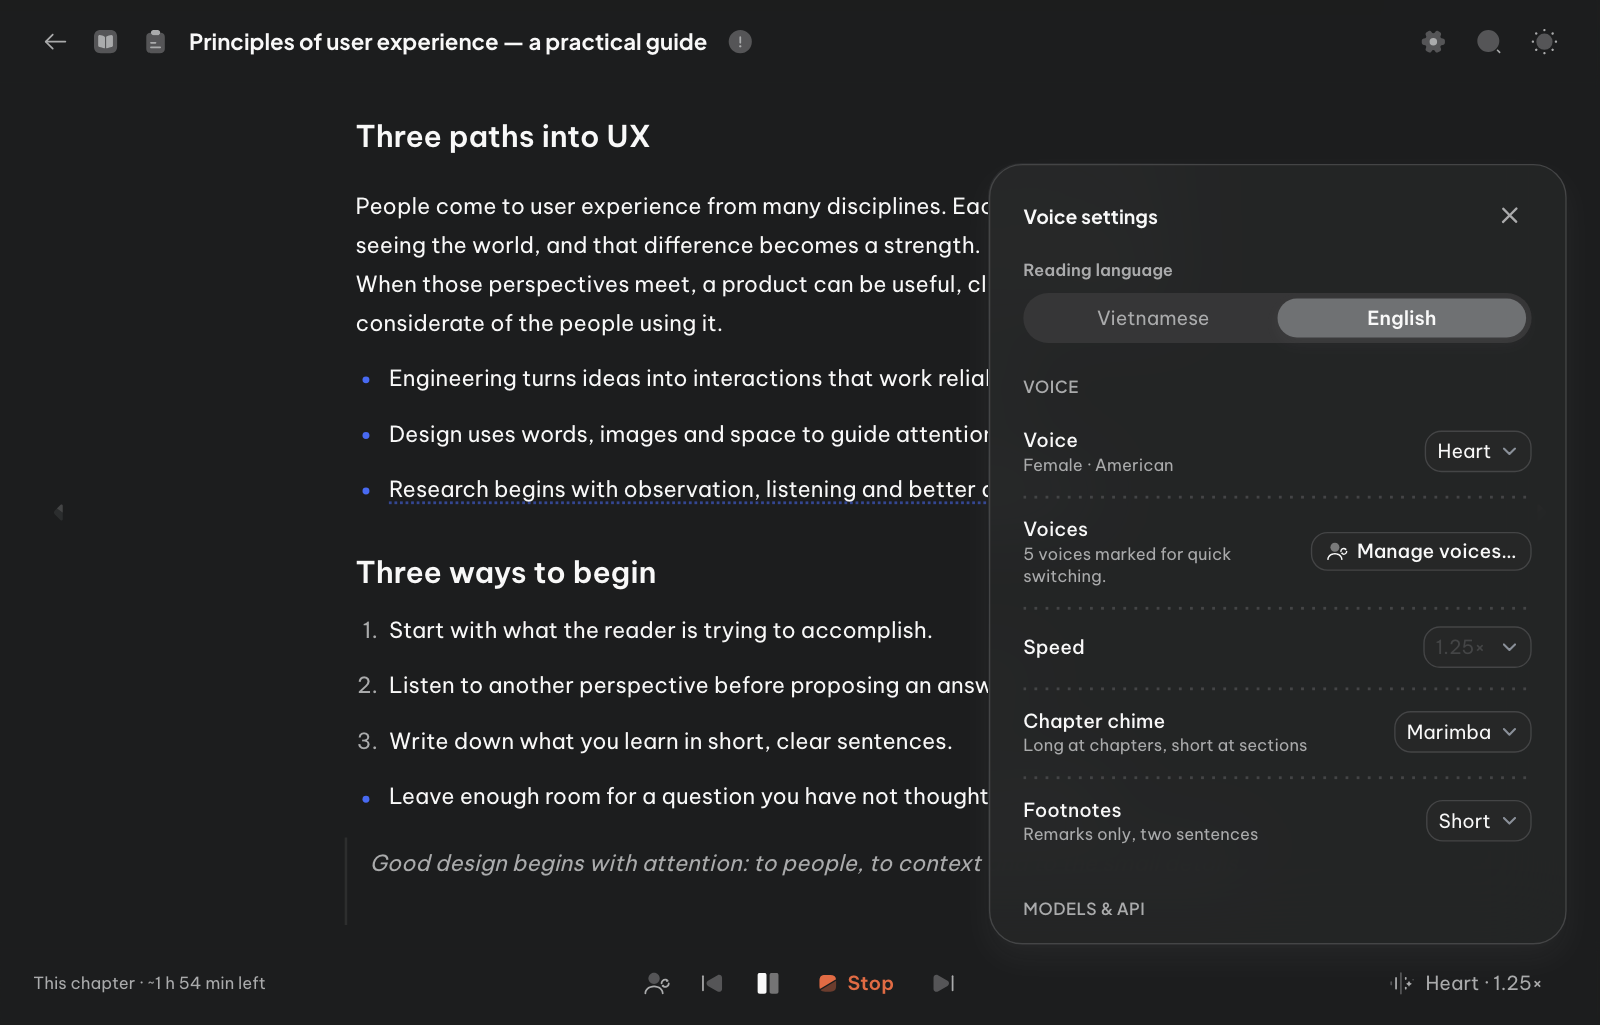
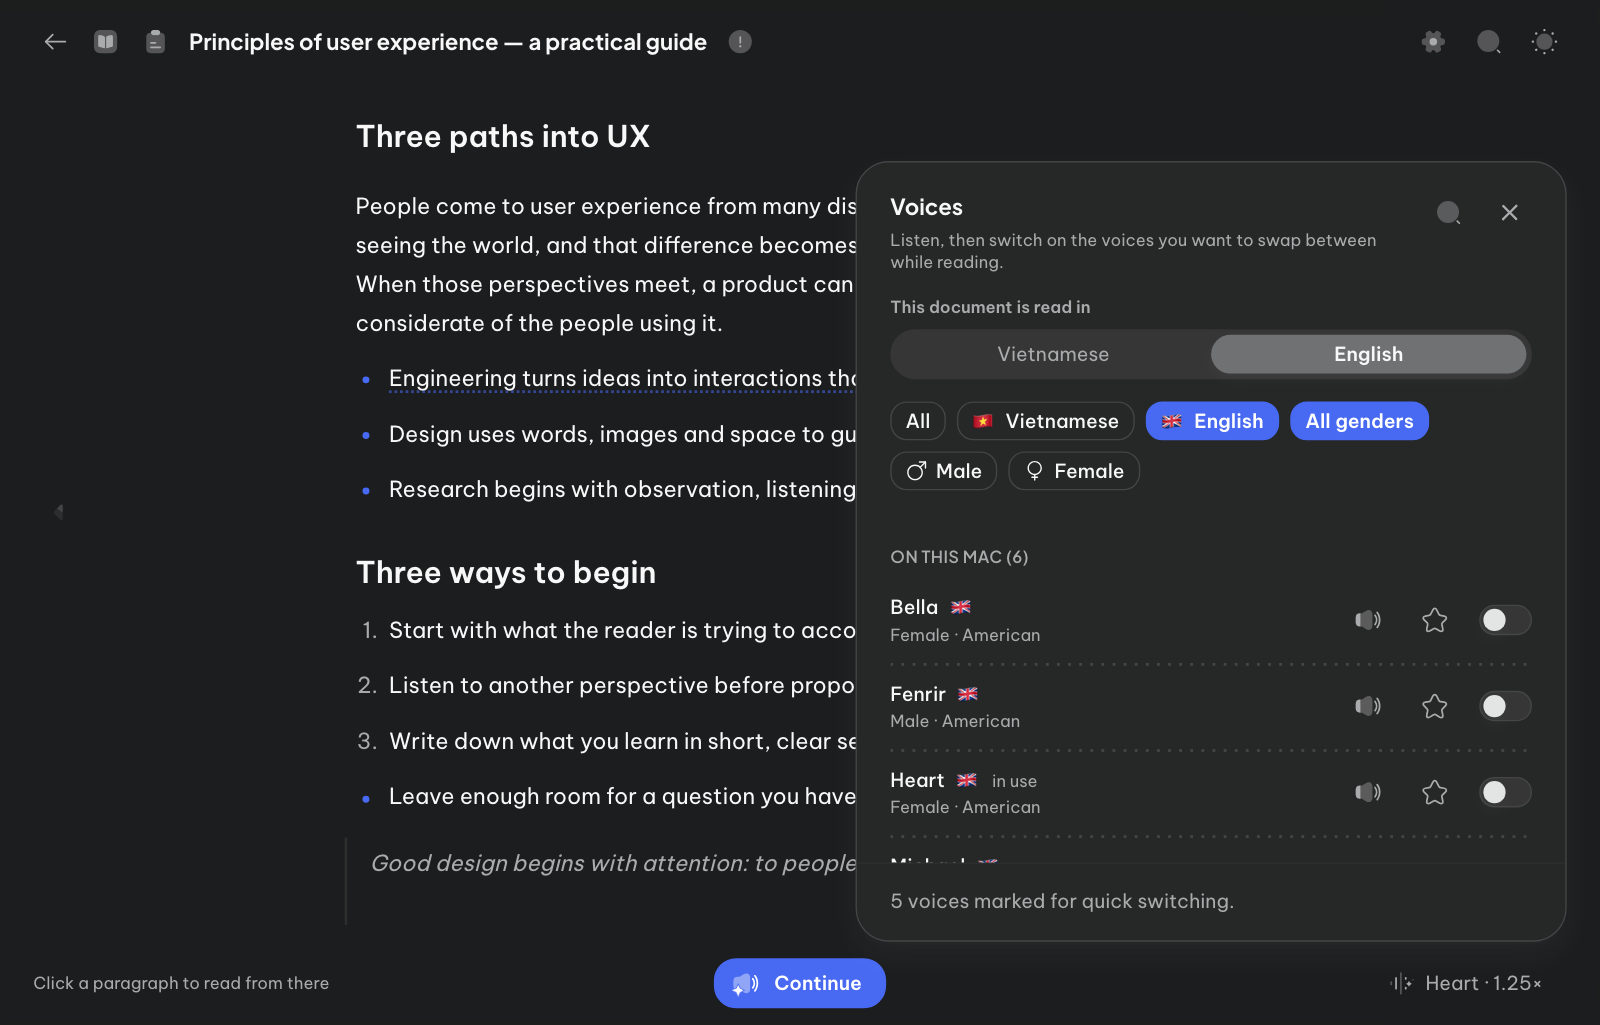
Landing screenshots: step 3 shows the voice list
The owner asked for many voices rather than one picked voice. Step 3 now
stops the reading (a playing reading cannot preview, and says so) and opens
the voice list: all 26 voices with language and gender filters in
Vietnamese, the six English voices in English.

diff --git a/assets/screenshots/en/README.md b/assets/screenshots/en/README.md
@@ -14,7 +14,9 @@ They tell the landing page's three-step story:
   of chapter 3, the floating reading status above the transport. Vietnamese
   keeps the table of contents; English hides it, because the English fixture
   translates the chapter, not the contents.
-- `voices.png`: the same reading with Voice settings open.
+- `voices.png`: the same book, reading stopped so every voice can be
+  previewed, with the voice list open: Vietnamese shows all 26 voices, English
+  filters to the six English ones.
 
 Dark theme, 1152×738 CSS px at device scale 1600/1152, so the interface reads
 a little larger than life inside the page's laptop frame.
